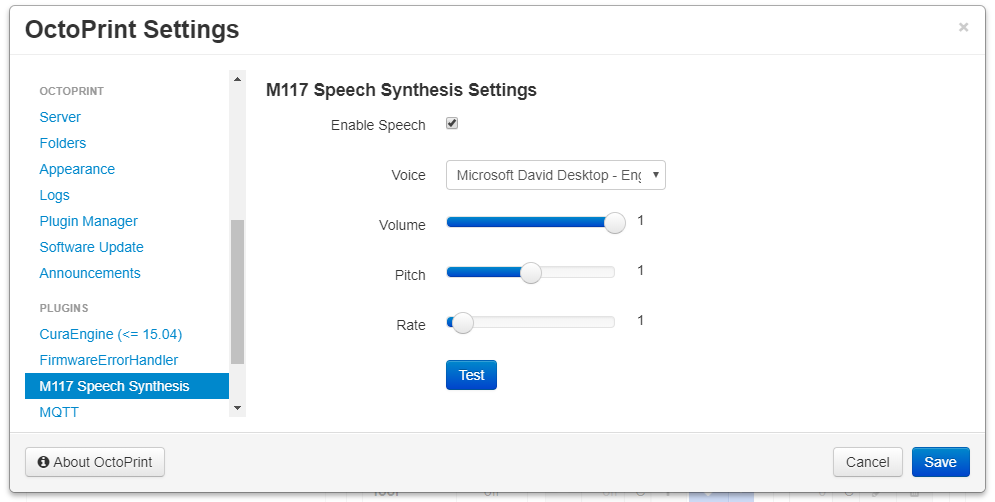
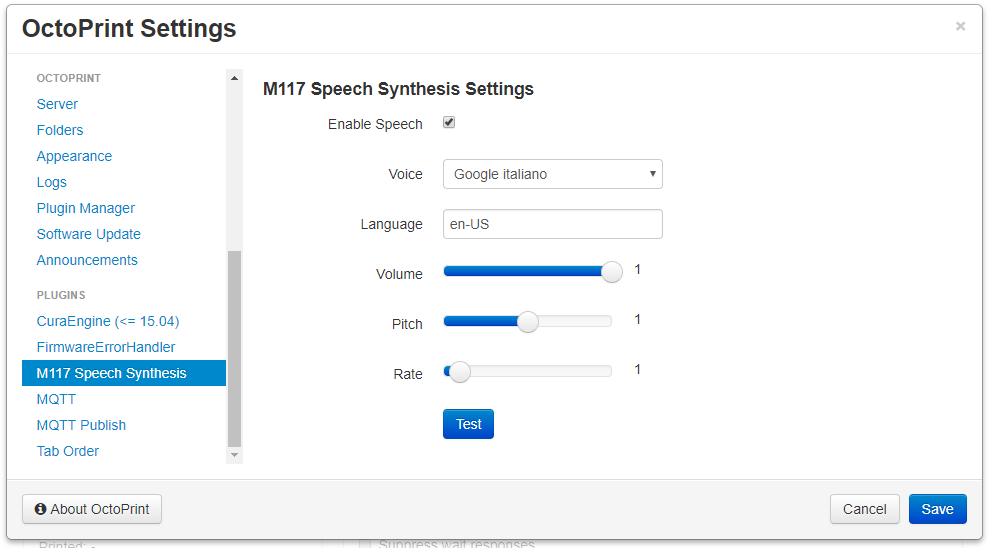
0.2.0
Added language code option in settings for #2.

diff --git a/octoprint_M117SpeechSynthesis/static/js/M117SpeechSynthesis.js b/octoprint_M117SpeechSynthesis/static/js/M117SpeechSynthesis.js
@@ -9,6 +9,7 @@ $(function() {
 		self.speechVolume = ko.observable();
 		self.speechPitch = ko.observable();
 		self.speechRate = ko.observable();
+		self.speechLanguage = ko.observable();
 		self.voices = ko.observableArray();
 		self.speechEnabledBrowser = ko.observable();
 
@@ -23,6 +24,7 @@ $(function() {
 					msg.volume = self.settingsViewModel.settings.plugins.M117SpeechSynthesis.speechVolume();
 					msg.pitch = self.settingsViewModel.settings.plugins.M117SpeechSynthesis.speechPitch();
 					msg.rate = self.settingsViewModel.settings.plugins.M117SpeechSynthesis.speechRate();
+					msg.lang = self.settingsViewModel.settings.plugins.M117SpeechSynthesis.speechLanguage();
 					msg.voice = speechSynthesis.getVoices().filter(function(voice){return voice.name == self.settingsViewModel.settings.plugins.M117SpeechSynthesis.speechVoice(); })[0];
 					speechSynthesis.cancel();
 					speechSynthesis.speak(msg);
@@ -36,6 +38,7 @@ $(function() {
 			self.speechVolume(self.settingsViewModel.settings.plugins.M117SpeechSynthesis.speechVolume());
 			self.speechPitch(self.settingsViewModel.settings.plugins.M117SpeechSynthesis.speechPitch());
 			self.speechRate(self.settingsViewModel.settings.plugins.M117SpeechSynthesis.speechRate());
+			self.speechLanguage(self.settingsViewModel.settings.plugins.M117SpeechSynthesis.speechLanguage());
         }
 		
 		self.onEventSettingsUpdated = function (payload) {
@@ -44,6 +47,7 @@ $(function() {
 			self.speechVolume(self.settingsViewModel.settings.plugins.M117SpeechSynthesis.speechVolume());
 			self.speechPitch(self.settingsViewModel.settings.plugins.M117SpeechSynthesis.speechPitch());
 			self.speechRate(self.settingsViewModel.settings.plugins.M117SpeechSynthesis.speechRate());
+			self.speechLanguage(self.settingsViewModel.settings.plugins.M117SpeechSynthesis.speechLanguage());
         }
 		
 		self.testVoice = function(data) {

diff --git a/setup.py b/setup.py
@@ -14,7 +14,7 @@ plugin_package = "octoprint_%s" % plugin_identifier
 plugin_name = "OctoPrint-M117SpeechSynthesis"
 
 # The plugin's version. Can be overwritten within OctoPrint's internal data via __plugin_version__ in the plugin module
-plugin_version = "0.1.0"
+plugin_version = "0.2.0"
 
 # The plugin's description. Can be overwritten within OctoPrint's internal data via __plugin_description__ in the plugin
 # module

diff --git a/octoprint_M117SpeechSynthesis/__init__.py b/octoprint_M117SpeechSynthesis/__init__.py
@@ -18,7 +18,7 @@ class M117SpeechSynthesis(octoprint.plugin.AssetPlugin,
 		
 	##-- Settings hooks
 	def get_settings_defaults(self):
-		return dict(enableSpeech=False,speechVoice="",speechVolume=1,speechPitch=1,speechRate=1)	
+		return dict(enableSpeech=False,speechVoice="",speechVolume=1,speechPitch=1,speechRate=1,speechLanguage="en-US")	
 	
 	##-- Template hooks
 	def get_template_configs(self):
